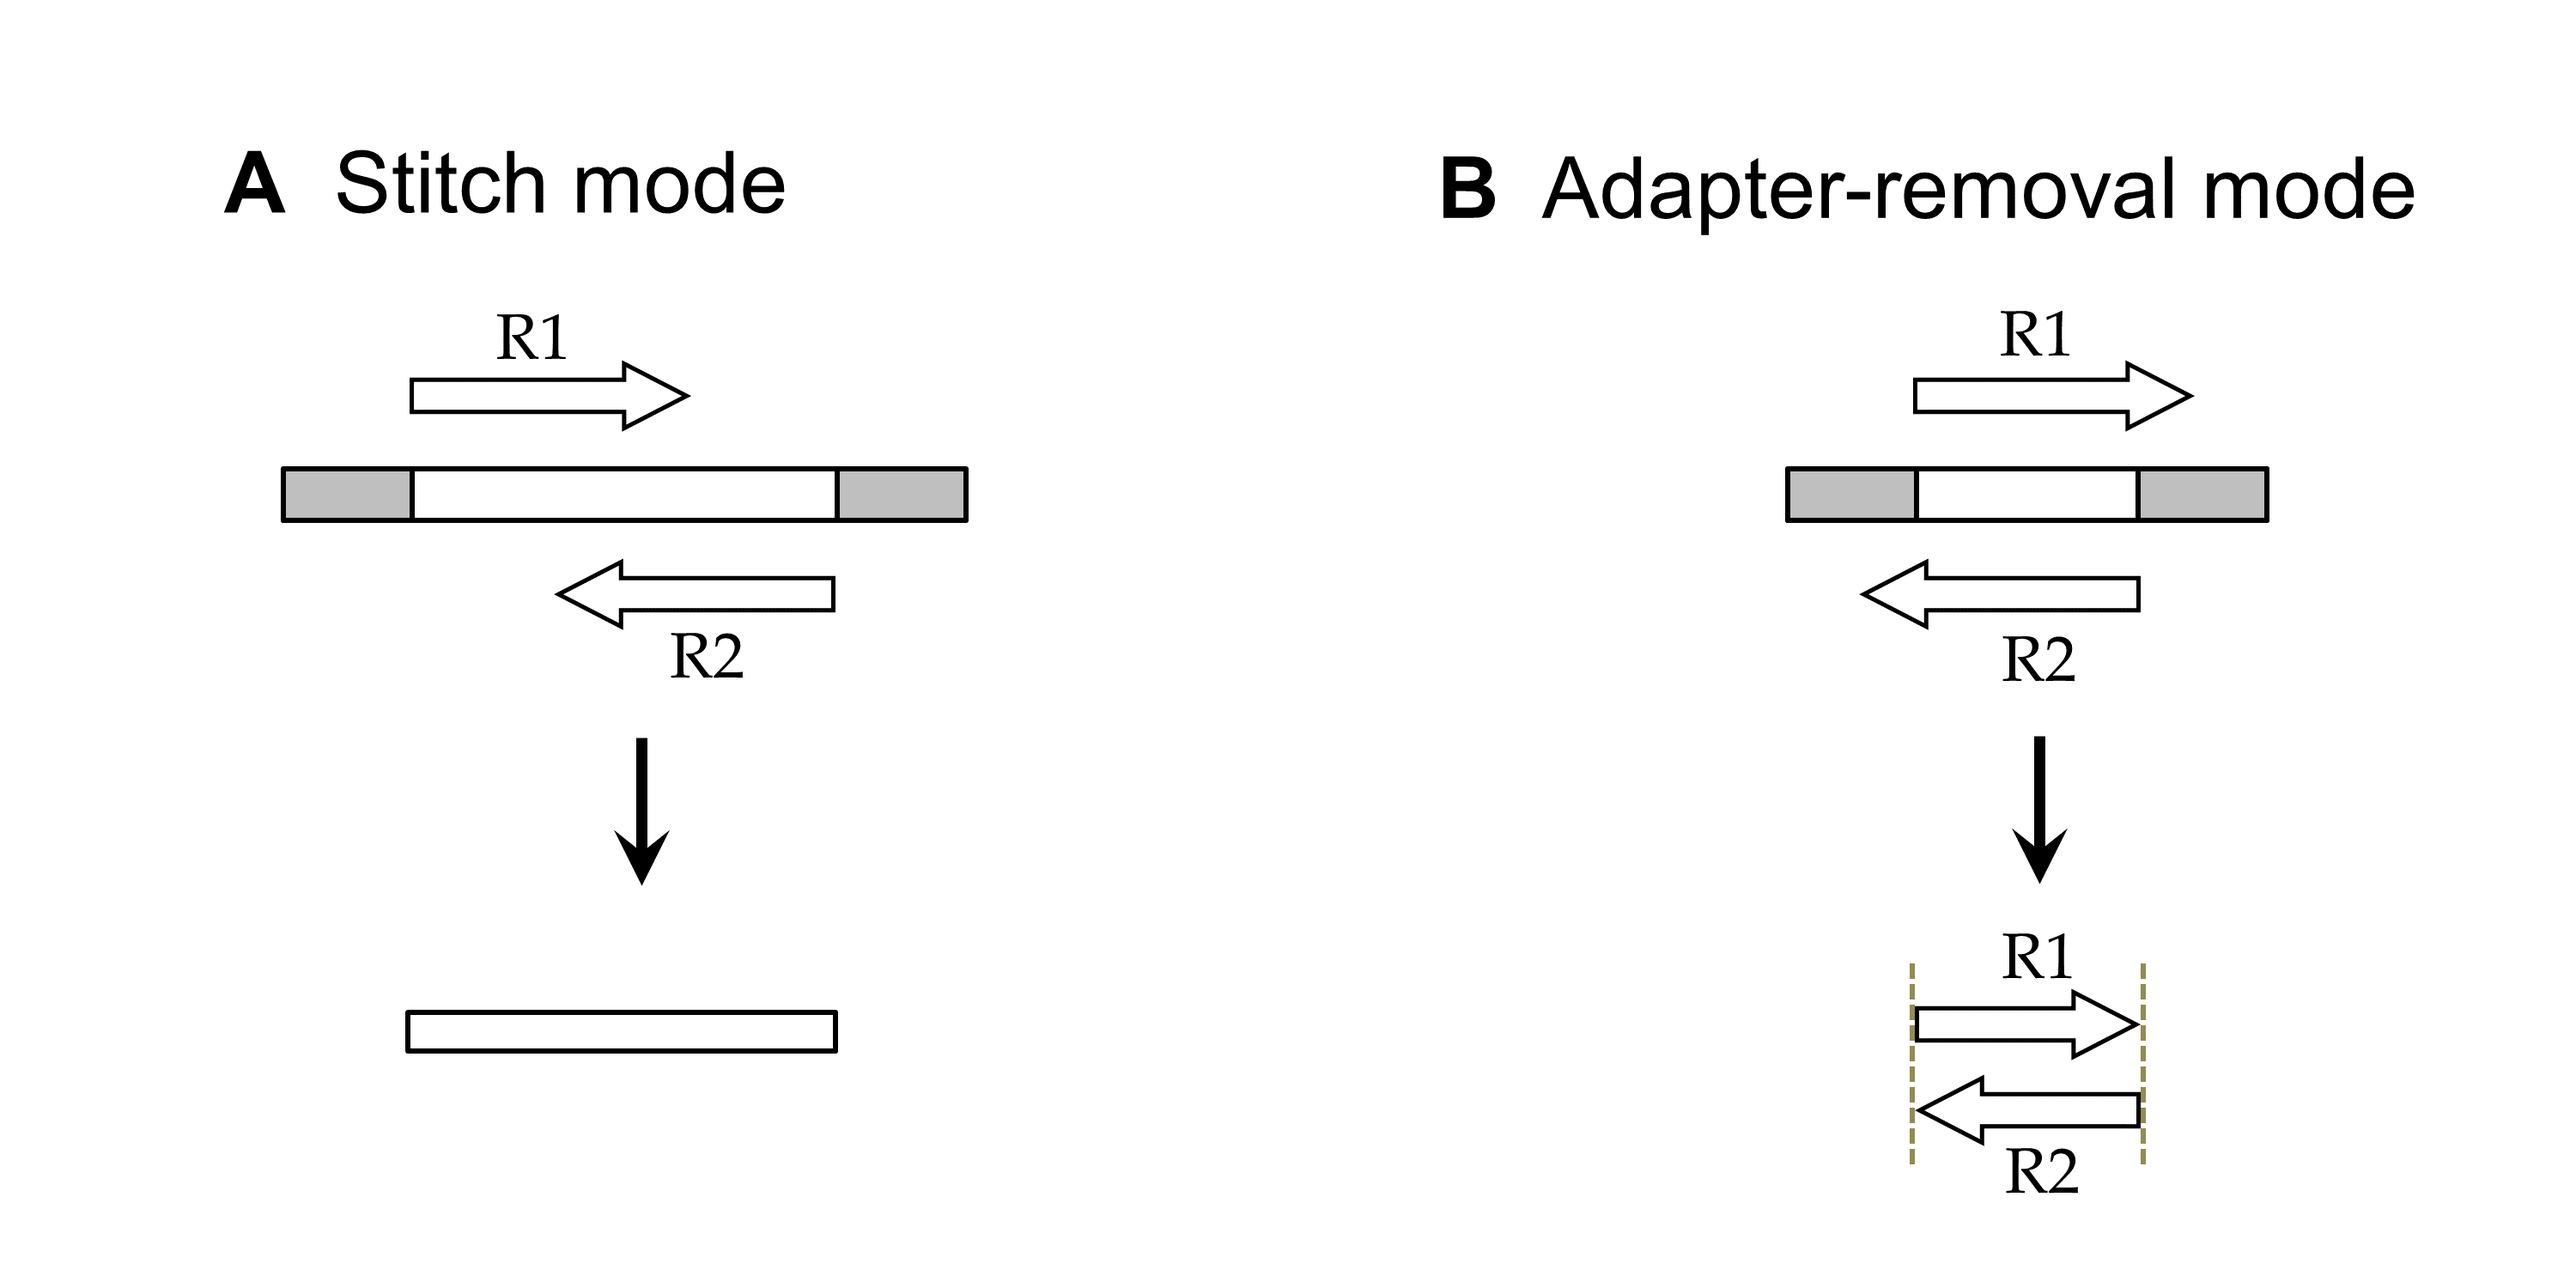
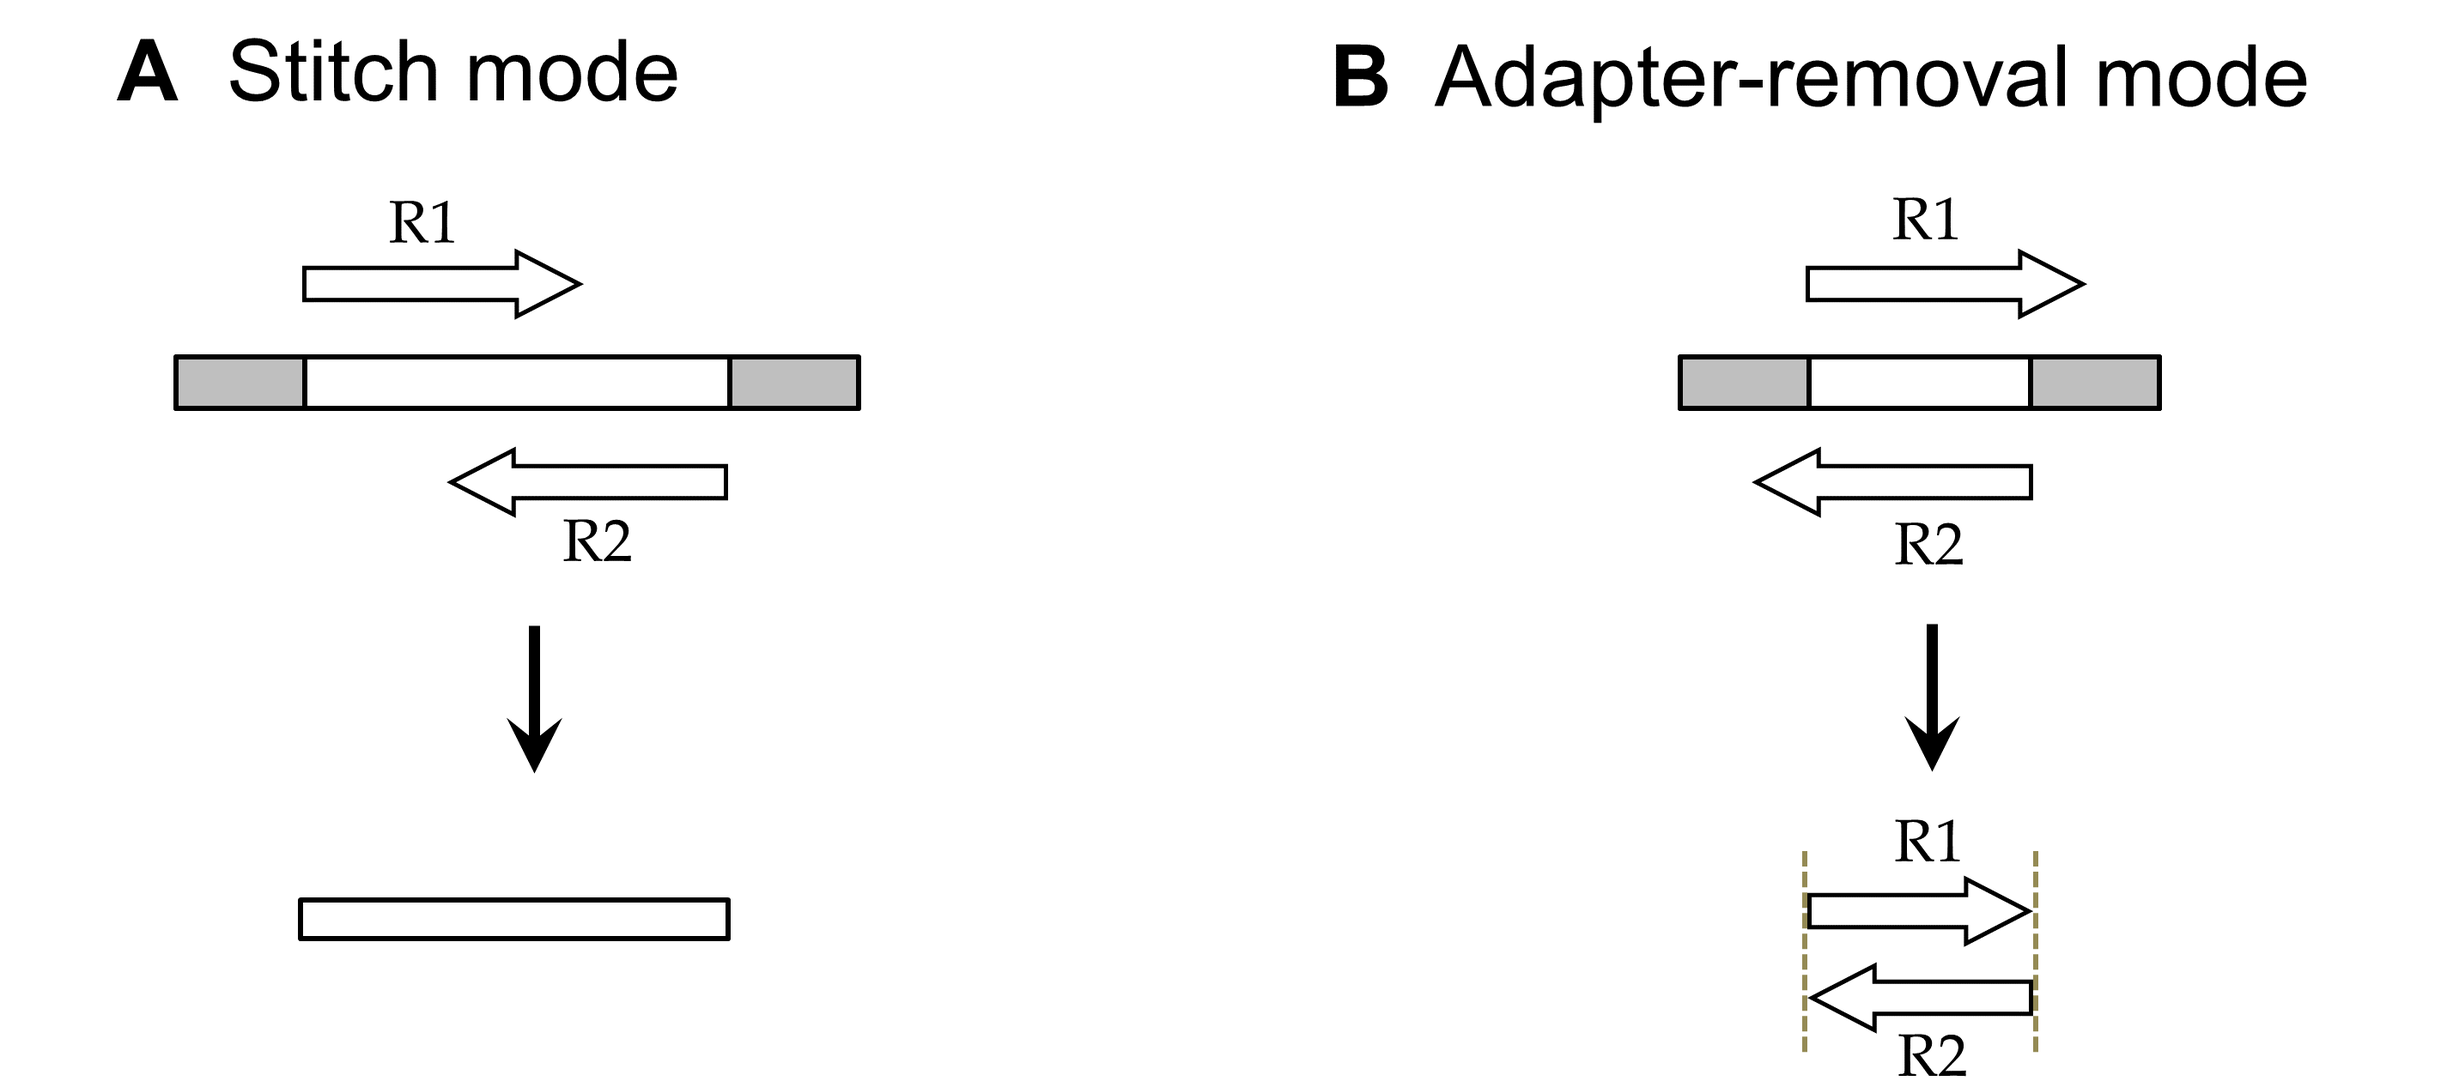
README: spacing edits

diff --git a/README.md b/README.md
@@ -1,29 +1,29 @@
 # NGmerge: merging paired-end reads and removing sequencing adapters
 
 ## Table of Contents
-[Introduction](#intro)<br>
-  * [Quick start](#quick)<br>
-  * [Software compilation](#compile)<br>
-  * [Usage message](#usage)<br>
-[Alignment method](#align)<br>
-[Stitch mode](#stitch)<br>
-  * [I/O files and options](#stitch-io)<br>
-  * [Alignment parameters](#stitch-aln)<br>
-  * [Quality score profile options](#stitch-qual)<br>
-[Adapter-removal mode](#adapter)<br>
-  * [I/O files and options](#adapter-io)<br>
-  * [Alignment parameters](#adapter-aln)<br>
-[Miscellaneous](#misc)<br>
-[Contact](#contact)<br>
+* [Introduction](#intro)
+  * [Quick start](#quick)
+  * [Software compilation](#compile)
+  * [Usage message](#usage)
+* [Alignment method](#align)
+* [Stitch mode](#stitch)
+  * [I/O files and options](#stitch-io)
+  * [Alignment parameters](#stitch-aln)
+  * [Quality score profile options](#stitch-qual)
+* [Adapter-removal mode](#adapter)
+  * [I/O files and options](#adapter-io)
+  * [Alignment parameters](#adapter-aln)
+* [Miscellaneous](#misc)
+* [Contact](#contact)
 
 
 ## Introduction <a name="intro"></a>
 
 NGmerge operates on paired-end high-throughput sequence reads in two distinct modes (Fig. 1).
 
-In the default mode ('stitch'), NGmerge combines paired-end reads that overlap into a single read that spans the full length of the original DNA fragment (Fig. 1A).  The ends of the merged read are defined by the 5' ends of the original reads.  Reads that fail the stitching process (due to a lack of sufficient overlap, or excessive sequencing errors) are placed into secondary output files, if the user requires them.
+In the default [stitch mode](#stitch), NGmerge combines paired-end reads that overlap into a single read that spans the full length of the original DNA fragment (Fig. 1A).  The ends of the merged read are defined by the 5' ends of the original reads.  Reads that fail the stitching process (due to a lack of sufficient overlap, or excessive sequencing errors) are placed into secondary output files, if the user requires them.
 
-The alternative 'adapter-removal' mode returns the original reads as pairs, removing the 3' overhangs of those reads whose valid stitched alignment has this characteristic (Fig. 1B).  Reads whose alignments do not have such overhangs (or do not align at all) will also be printed to the output files, unmodified.
+The alternative [adapter-removal mode](#adapter) returns the original reads as pairs, removing the 3' overhangs of those reads whose valid stitched alignment has this characteristic (Fig. 1B).  Reads whose alignments do not have such overhangs (or do not align at all) will also be printed to the output files, unmodified.
 
 <figure>
   <img src="figures/figure1.png" alt="Analysis modes of NGmerge" width="700">
@@ -34,29 +34,28 @@ The alternative 'adapter-removal' mode returns the original reads as pairs, remo
 ### Quick start <a name="quick"></a>
 
 Given:
-* `sample_R1.fastq.gz`, `sample_R2.fastq.gz`: paired-end sequence files
+* `sample_R1.fastq.gz`, `sample_R2.fastq.gz` (paired-end sequence files)
 * `NGmerge` (downloaded and compiled as described [below](#compile))
 
-Looking for:
-* Merged reads (Fig. 1A)
+To produce stitched reads (Fig. 1A): `sample_merged.fastq.gz`
 ```
-$ ./NGmerge  -1 sample_R1.fastq.gz  -2 sample_R2.fastq.gz  -o sample.fastq.gz
+$ ./NGmerge  -1 sample_R1.fastq.gz  -2 sample_R2.fastq.gz  -o sample_merged.fastq.gz
 ```
 
-* Reads with adapters removed (Fig. 1B)
+To produce reads with adapters removed (Fig. 1B): `sample_noadapters_1.fastq.gz` and `sample_noadapters_2.fastq.gz`
 ```
 $ ./NGmerge  -a  -1 sample_R1.fastq.gz  -2 sample_R2.fastq.gz  -o sample_noadapters
 ```
-(the output files are `sample_noadapters_1.fastq.gz` and `sample_noadapters_2.fastq.gz`)
+<br><br>
 
 
 ### Software compilation <a name="compile"></a>
 
-The software can be downloaded from [GitHub](https://github.com/jsh58/NGmerge). (but you're already here! congratulations!)
+The software can be downloaded from [GitHub](https://github.com/jsh58/NGmerge). (and you're already here! congratulations!)
 
 A Makefile is provided for compilation with [GCC](https://gcc.gnu.org/releases.html), and both [zlib](http://zlib.net) and [OpenMP](https://www.openmp.org/) are also required.  The program has been tested after compilation with GCC 6.3.0, zlib 1.2.8, and OpenMP 4.0.
 
-To compile, run `make` in the folder in which the software was downloaded.
+To compile, run `make` in the folder in which the software was downloaded.  The executable `NGmerge` should be produced.
 
 
 ### Usage message <a name="usage"></a>
@@ -97,12 +96,12 @@ I/O options:
 
 ## Alignment method <a name="align"></a>
 
-In either analysis mode (Fig. 1), NGmerge evaluates all possible gapless alignments of a pair of reads.  The determinations of which alignments are considered, and then which alignment (if any) is both valid and optimal, are made according to several parameters (`-m`, `-p`, `-d`, `-e`, and `-s`).
+In either analysis mode (Fig. 1), NGmerge evaluates all possible gapless alignments of a pair of reads in attempting to find an optimal one.  The determinations of which alignments are considered, and then which alignment (if any) is both valid and optimal, are made according to several parameters: `-m`, `-p`, `-d`, `-e`, and `-s`.
 
 NGmerge begins by aligning a pair of reads (R1, R2) such that the minimum overlap parameter (`-m`, default 20bp) is met.  It then checks each possible alignment of the reads until they overlap with no 3' overhangs (Fig. 2A).  If the `-d` option is selected (or in adapter-removal mode [`-a`, which automatically sets `-d`]), NGmerge additional evaluates dovetailed alignments (with 3' overhangs), down to the minimum length set by the `-e` parameter (Fig. 2B).
 
 <figure>
-  <img src="figures/figure2.png" alt="Alignment method of NGmerge" width="400">
+  <img src="figures/figure2.png" alt="Alignment method of NGmerge" width="500">
   <figcaption><strong>Figure 2.</strong>  Alignments considered by NGmerge.  <strong>A:</strong> Default alignments range from those with the minimal overlap length (set by <code>-m</code>), to complete overlaps with no overhangs.  <strong>B:</strong> When the <code>-d</code> option is selected, NGmerge also evaluates dovetailed alignments.</figcaption>
 </figure>
 <br><br>
@@ -130,6 +129,7 @@ The input files must list the reads in the same order.  The program requires tha
 An input file of interleaved reads can be analyzed by not specifying a `-2` file.  Also, it is possible to read from stdin using `-`, e.g. `-1 -`.
 
 Since the merged reads are defined by the 5' ends of the paired reads' alignments (Fig. 1A), one should be wary of quality trimming the reads at those ends.  For example, when using a program such as [qualTrim](https://github.com/jsh58/AmpliconTools), one should specify `-3` to ensure that quality trimming occurs only at the 3' ends, prior to using NGmerge.
+<br><br>
 
 #### Output files and options <a name="stitch-output"></a>
 
@@ -138,26 +138,26 @@ Since the merged reads are defined by the 5' ends of the paired reads' alignment
                    - in 'stitch' mode (def.), the file of merged reads
 ```
 The primary output file in stitch mode is the file of merged reads, in FASTQ format.  It is possible to write to stdout with `-o -` (see also `-y`, below).
-<br>
+<br><br>
 
 ```
   -f  <file>       FASTQ files for reads that failed stitching
                      (output as <file>_1.fastq and <file>_2.fastq)
 ```
 When specified, all the reads that failed the merging procedure will be written to the output files, as they appeared in the original inputs.
-<br>
+<br><br>
 
 ```
   -z/-y            Option to gzip (-z) or not (-y) FASTQ output(s)
 ```
 By default, all FASTQ output files will be gzip-compressed if and only if the input files are (with multiple sets of input files, the outputs will be compressed if either of the first set of inputs is).  Specifying `-z` will guarantee that the outputs are gzip-compressed, whereas `-y` will guarantee that they are not, regardless of the inputs' formats.  Note that all gzip-compressed outputs will automatically have '.gz' appended to their filenames, if necessary.
-<br>
+<br><br>
 
 ```
   -i               Option to produce interleaved FASTQ output(s)
 ```
 In stitch mode, this applies only to the optional output from `-f` (above).  Instead of two outputs, a single interleaved output will be produced (and no '.fastq' suffix will be appended to the filename).
-<br>
+<br><br>
 
 ```
   -l  <file>       Log file for stitching results of each read pair
@@ -178,7 +178,7 @@ This log file lists the following for each read pair in the input file(s):
   </tr>
   <tr>
     <td align="center">Mismatch</td>
-    <td>fraction of mismatched bases (count of mismatches / overlap length [not including Ns]); must be less than or equal to <code>-p</code> value (see below)</td>
+    <td>fraction of mismatched bases (count of mismatches divided by overlap length [not including Ns]); must be less than or equal to <code>-p</code> value (see below)</td>
   </tr>
 </table>
 <br>
@@ -203,7 +203,7 @@ This log file lists the following for each read pair whose optimal valid alignme
 </table>
 
 The columns are labeled 'Adapter' because, if the reads were not trimmed on their 5' ends, these extra sequences should be adapters.  If the sequences that appear in the 'Adapter' columns are not consistent, they may be false positives, and one should consider decreasing `-p` or increasing `-e`.
-<br>
+<br><br>
 
 ```
   -j  <file>       Log file for formatted alignments of merged reads
@@ -222,6 +222,7 @@ merged
 seq:     CTCACACTCAATCTTTTATCACGAAGTCATGATTGAATCGCGAGTGGTCGGCAGATTGCGATAA
 qual:    1101?B10>F1111G>HG"GEBFHHHHB>GG>>G?H="DHFFCHGHDDBD0000:....00:/;
 ```
+<br><br>
 
 ### Alignment parameters <a name="stitch-aln"></a>
 
@@ -229,27 +230,27 @@ qual:    1101?B10>F1111G>HG"GEBFHHHHB>GG>>G?H="DHFFCHGHDDBD0000:....00:/;
   -m  <int>        Minimum overlap of the paired-end reads (def. 20)
 ```
 This is the minimum overlap length (in bp) for valid alignments of a pair of reads (see Fig. 2A).  Note that ambiguous bases (Ns) do not count toward this minimum length.
+<br><br>
 
-<br>
 ```
   -p  <float>      Mismatches to allow in the overlapped region
                      (a fraction of the overlap length; def. 0.10)
 ```
 This parameter determines how stringent the evaluation of an alignment is.  The value must be in the interval [0, 1), with lower values equating to increased stringency.  Specifying `-p 0` means that only perfect alignments (with no mismatches) are valid; the default value of 0.10 means that a valid alignment can have at most 10% mismatches (calculated as the number of mismatches divided by the overlap length [not counting Ns]).
+<br><br>
 
-<br>
 ```
   -d               Option to check for dovetailing (with 3' overhangs)
 ```
 When this option is selected, alignments in which a read's 3' end extends past its pair's 5' end will be evaluated, down to a minimum length (see Fig. 2B).  By default, such alignments are not even considered.  Since the merged read is defined by the original reads' 5' ends, the 3' overhangs are automatically removed.  These overhangs can be printed to a separate log file (see `-c`, above).
+<br><br>
 
-<br>
 ```
   -e  <int>        Minimum overlap of dovetailed alignments (def. 50)
 ```
 This is the minimum overlap length (in bp) for alignments with 3' overhangs (see Fig. 2B).  This value should be set to the length of the absolute shortest DNA fragment that may have been sequenced.  Using a value that is too low may result in false positives, especially if the reads contain repetitive sequences.
+<br><br>
 
-<br>
 ```
   -s               Option to produce shortest stitched read
 ```
@@ -264,6 +265,7 @@ By default, NGmerge uses hard-coded profiles when determining the quality scores
   -w  <file>       Use given error profile for merged qual scores
 ```
 With this option, NGmerge will use the quality score profiles in the provided file.  The file must list two matrices of comma- or tab-separated values that follow header lines `#match` and `#mismatch`.  One should follow the template of the given [`qual_profile.txt`](https://github.com/jsh58/NGmerge/blob/master/qual_profile.txt) file, which mimics the hard-coded profiles of NGmerge with the quality score range of [0, 40].
+<br><br>
 
 ```
   -g               Use 'fastq-join' method for merged qual scores
@@ -292,39 +294,41 @@ The formatting of the input files is described [above](#stitch-input).
                      will be <file>_1.fastq and <file>_2.fastq
 ```
 In adapter-removal mode, all reads are printed to the output files.  The only modifications are the clipping of the 3' overhangs of reads whose alignments have such overhangs.
+<br><br>
 
 ```
   -i               Option to produce interleaved FASTQ output(s)
 ```
 With this option, instead of two outputs, a single interleaved output will be produced (and no '.fastq' suffix will be appended to the filename).
+<br><br>
 
 ```
   -z/-y            Option to gzip (-z) or not (-y) FASTQ output(s)
 ```
 These options are described [above](#stitch-output).
+<br><br>
 
 ```
   -c  <file>       Log file for dovetailed reads (adapter sequences)
 ```
 This log file is described [above](#stitch-output).
-
+<br><br>
 
 In adapter-removal mode, the following files **cannot** be produced:
-
 ```
   -f  <file>       FASTQ files for reads that failed stitching
                      (output as <file>_1.fastq and <file>_2.fastq)
   -l  <file>       Log file for stitching results of each read pair
   -j  <file>       Log file for formatted alignments of merged reads
 ```
-
+<br><br>
 
 ### Alignment parameters <a name="adapter-aln"></a>
 
 These parameters are described [above](#stitch-aln).
 
 As noted previously, the `-d` option is automatically set in adapter-removal mode.
-
+<br><br>
 
 ## Miscellaneous <a name="misc"></a>
 
@@ -332,20 +336,20 @@ As noted previously, the `-d` option is automatically set in adapter-removal mod
   -n  <int>        Number of threads to use (def. 1)
 ```
 To reduce computational time, one can run NGmerge across multiple cores via this option.  Note that gzip compression and decompression is not parallelized, so the computational savings are not linear.
-<br>
+<br><br>
 
 ```
   -q  <int>        FASTQ quality offset (def. 33)
   -u  <int>        Maximum input quality score (0-based; def. 40)
 ```
 These two parameters set the range of quality scores for the input FASTQ files.  The default values match the [Sanger format](https://en.wikipedia.org/wiki/FASTQ_format#Encoding), with quality scores in the range [0, 40] spanning ASCII values [33, 73].
-<br>
+<br><br>
 
 ```
   -b               Option to print mismatches only to -j log file
 ```
 Instead of printing full alignments, the log file specified by `-j` will list the details of the mismatches: the read header, position, and the base and quality score for both the R1 and R2 reads.  This is useful for calculating separate error rates for matches and mismatches.
-<br>
+<br><br>
 
 
 Other options:
@@ -354,13 +358,14 @@ Other options:
   -h/--help        Print the usage message and exit
   -V/--version     Print the version and exit
 ```
+<br><br>
 
 Other notes:
 
 * NGmerge cannot gzip-compress multiple output files that are stdout.  For example, the following will produce an error:
   * `-o -  -a` without `-i`
   * `-f -` without `-a` and without `-i`
-
+<br><br>
 
 ## Contact <a name="contact"></a>
 
